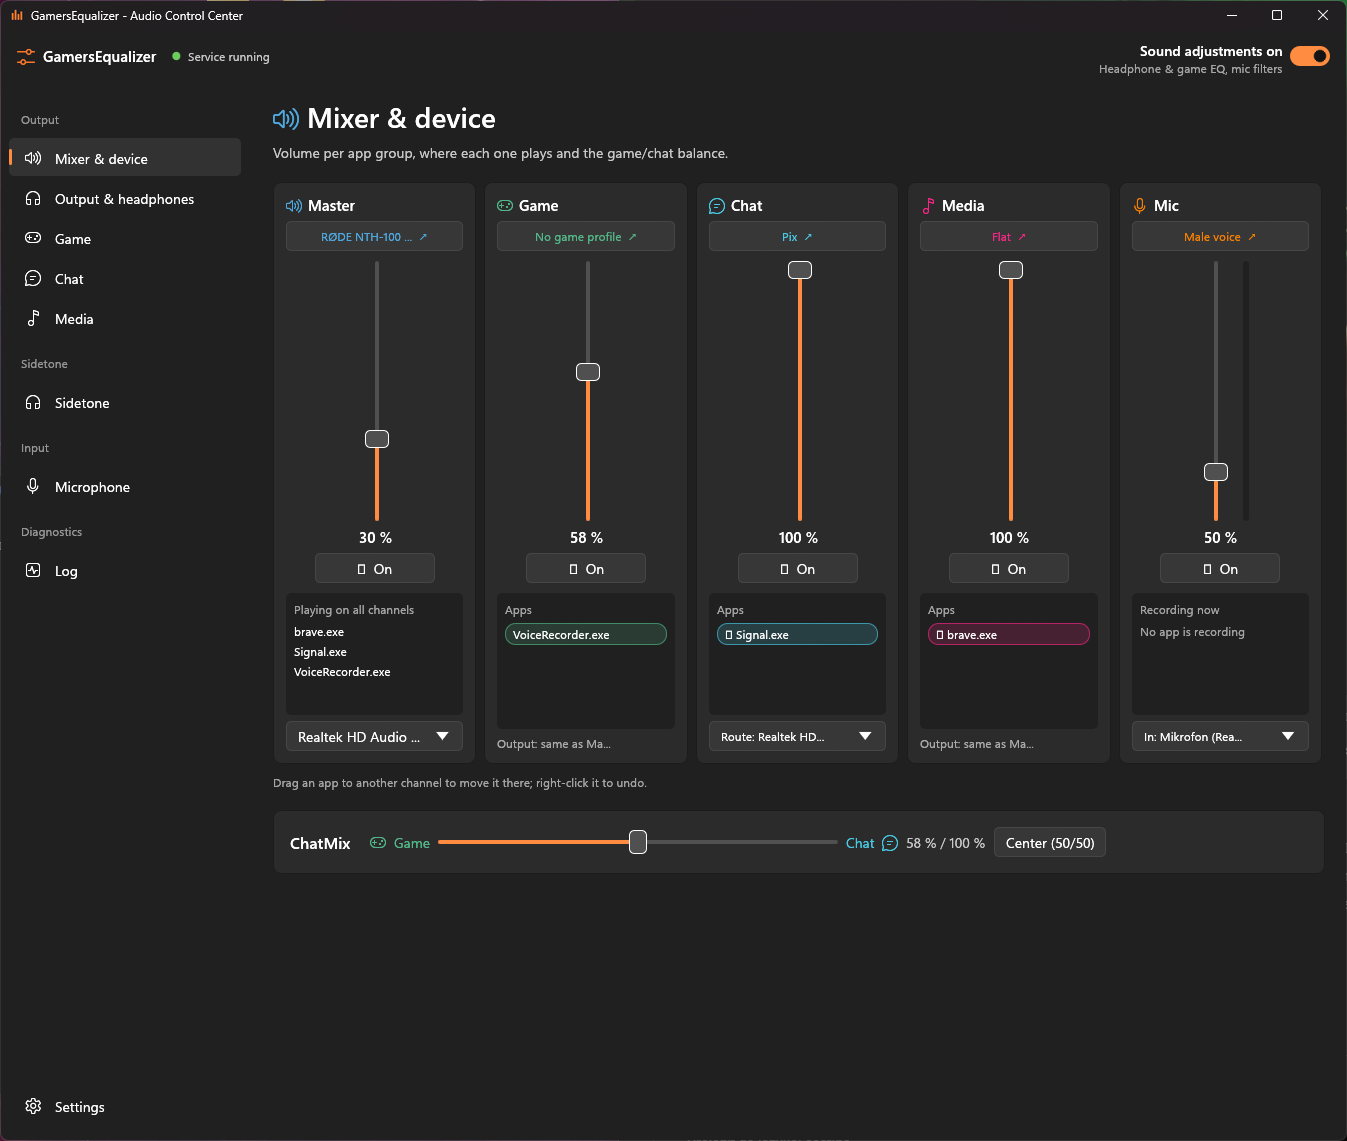
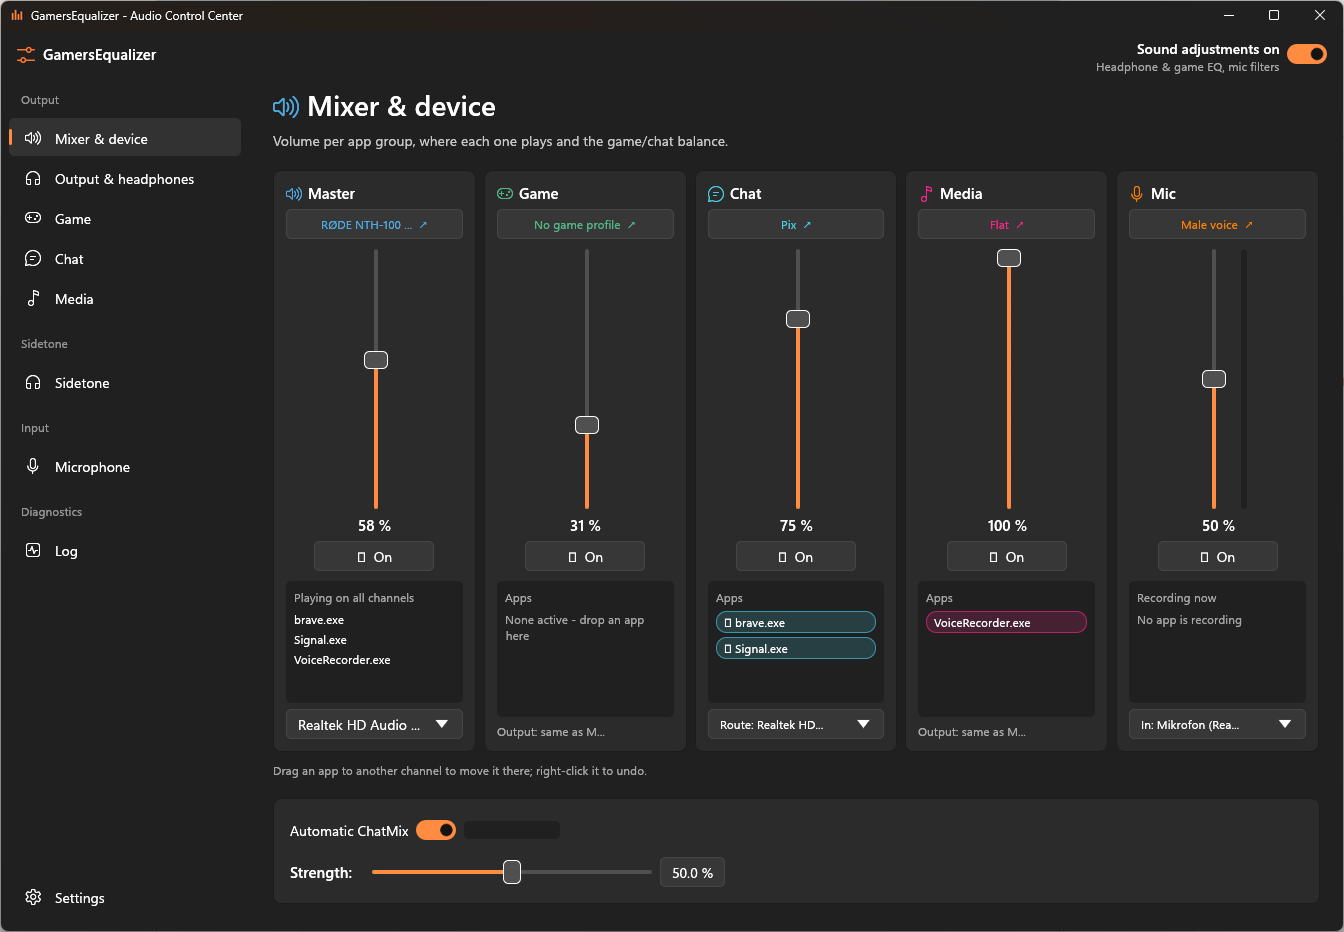
README: Automatic ChatMix, current start screen screenshot

diff --git a/README.md b/README.md
@@ -1,9 +1,9 @@
 # GamersEqualizer
 
-An audio control center for Windows, built for gamers: per-app mixer with ChatMix, headphone
-correction EQ, game profiles, sidetone, and a low-latency microphone chain with echo cancellation and
-AI noise suppression. It works in every app, because the processing runs as a Windows audio effect
-(APO) on your real devices: no virtual sound card, no network access.
+An audio control center for Windows, built for gamers: per-app mixer with ChatMix and Automatic
+ChatMix, headphone correction EQ, game profiles, sidetone, and a low-latency microphone chain with echo
+cancellation and AI noise suppression. It works in every app, because the processing runs as a Windows
+audio effect (APO) on your real devices: no virtual sound card, no network access.
 
 > **Status: in development.** Only a handful of people test it, while Windows setups vary enormously
 > (sound cards, drivers, other audio software, Windows versions and builds). It works on the machines
@@ -33,6 +33,12 @@ choice adds. It should be just as useful outside games.
   device.
 - Drag an app onto a channel to move it there. Right-click undoes the move.
 - A ChatMix slider balances game against chat.
+- Automatic ChatMix (new in 0.3.0, still needs more testing) lowers the game while someone in the voice
+  chat (a chat app on the Chat channel) talks over it, and brings it back when they stop. One Strength
+  slider: at the default 50 % the voice ends up about twice as loud as the game, at 100 % about four
+  times. It is off by default; switch it on in Output & headphones or on Mixer & device, where it
+  takes the place of the ChatMix slider while on and a bar shows how far the game is lowered now. It
+  also works for games with Dolby Atmos / spatial sound; the app then lowers the game's own volume.
 
 **Headphone & game EQ**
 
